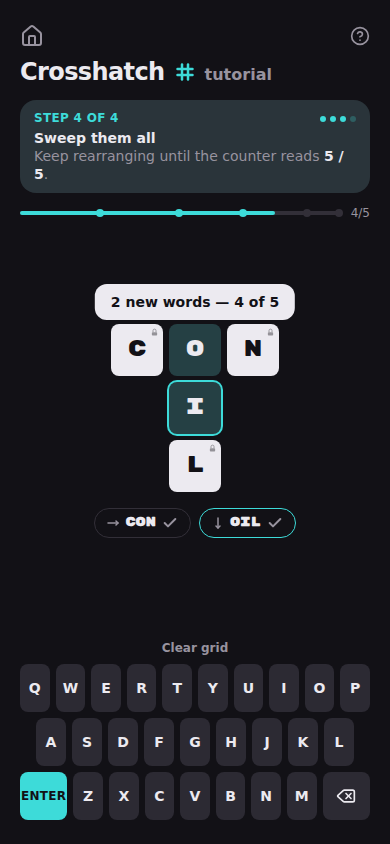
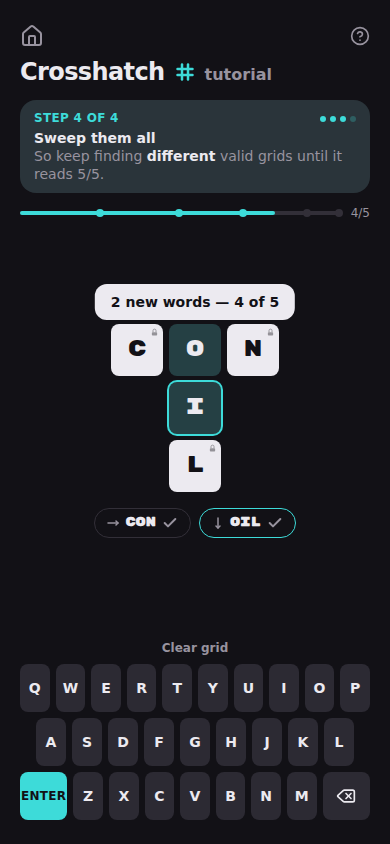
Only claim a tutorial step's fact when the board actually says so
Two steps were asserting things about the player's position that nothing
checked.

Serpentine's "Corners count too" tells you the NEXT letter is diagonal.
The reducer accepts any adjacent move — it only checks the phrase at the
end — so a player can wander off down a route that spells nothing, and the
step fired on cell COUNT alone. Two cells traced anywhere, and the tutorial
confidently pointed at a diagonal that wasn't there.

It now verifies the traced cells are exactly the solution's first N
(`onSolutionPath`), and off-path it holds at "tap a placed cell to undo
back to it" — which is the instruction that actually helps someone who has
gone wrong. Serpentine also stops clamping its step index forward, unlike
the other games: undoing is ordinary play here, so backing off the diagonal
should put the diagonal lesson back up rather than leaving stale guidance
on screen.

Backwords had a milder version of the same thing. "Palindromes need only
half — lay DA" fired on any committed row, but nothing forces the order; a
player who lays DA first was being told to do what they had just done. It
now waits for the PAIR specifically, so laying the palindrome first leaves
the step that names TOP up, which is what those remaining letters need.

Doublet's "the last two only fit vertically" was true of the intended order
and not of others, so it now states the board-wide fact instead.

Audited the other steps for the same class of error: Polygram's and
[…]

Changed region(s): [[0.5846, 0.154, 0.8923, 0.2156], [0.3385, 0.154, 0.5538, 0.2156], [0.0923, 0.154, 0.3077, 0.2156]]

diff --git a/src/games/serpentine/engine/tutorial.test.ts b/src/games/serpentine/engine/tutorial.test.ts
@@ -4,6 +4,7 @@ import { areAdjacent, cellKey } from "./types";
 import { checkSolved, validatePuzzle } from "./validation";
 import {
   TUTORIAL_FIRST_DIAGONAL,
+  onSolutionPath,
   TUTORIAL_PUZZLE,
   TUTORIAL_STEP_COUNT,
   tutorialStepIndex,
@@ -106,6 +107,55 @@ describe("tutorialStepIndex", () => {
   it("reports the script finished only when solved", () => {
     expect(at({ cells: TUTORIAL_PUZZLE.path, solved: true })).toBe(
       TUTORIAL_STEP_COUNT,
+    );
+  });
+
+  // The diagonal step asserts where the NEXT letter is, so it must never
+  // appear to a player who isn't standing where that is true. The reducer
+  // accepts any adjacent move, so wandering off is easy to do.
+  it("never shows the diagonal step off the solution path", () => {
+    // Two cells traced, but down a route that spells nothing: T then A
+    // (straight down) instead of T then R.
+    const wrong = [
+      { row: 0, col: 0 },
+      { row: 1, col: 0 },
+    ];
+    expect(onSolutionPath(wrong)).toBe(false);
+    expect(at({ cells: wrong })).toBe(1);
+  });
+
+  it("holds at the follow-the-letters step for any wrong route", () => {
+    // A long wrong route still gets the step that tells you how to undo,
+    // never the positional claim and never the near-the-end step.
+    const wrong = [
+      { row: 0, col: 0 },
+      { row: 1, col: 0 },
+      { row: 2, col: 0 },
+      { row: 2, col: 1 },
+      { row: 1, col: 1 },
+    ];
+    expect(onSolutionPath(wrong)).toBe(false);
+    expect(at({ cells: wrong })).toBe(1);
+  });
+
+  it("recovers the diagonal step when the player backs onto the path", () => {
+    // Undo is ordinary play here, and the screen does not clamp the step
+    // forward — stepping back to the diagonal should put its lesson back.
+    expect(at({ cells: path(3) })).toBe(3);
+    expect(at({ cells: path(TUTORIAL_FIRST_DIAGONAL) })).toBe(2);
+    expect(at({ cells: path(1) })).toBe(1);
+    expect(at({ cells: [] })).toBe(0);
+  });
+
+  it("accepts every prefix of the real path as on-path", () => {
+    for (let n = 0; n <= TUTORIAL_PUZZLE.path.length; n++) {
+      expect(onSolutionPath(path(n))).toBe(true);
+    }
+  });
+
+  it("rejects a path longer than the solution", () => {
+    expect(onSolutionPath([...TUTORIAL_PUZZLE.path, { row: 0, col: 0 }])).toBe(
+      false,
     );
   });
 });

diff --git a/src/games/serpentine/engine/tutorial.ts b/src/games/serpentine/engine/tutorial.ts
@@ -63,6 +63,21 @@ export const TUTORIAL_FIRST_DIAGONAL = 2;
 export const TUTORIAL_STEP_COUNT = 4;
 
 /**
+ * True when the traced cells are EXACTLY the solution's first N cells.
+ *
+ * The reducer accepts any adjacent move — it only checks the phrase at the
+ * end — so a player can wander off down a route that spells nothing. The
+ * step script has to know the difference, because one of its steps makes a
+ * claim about where the next letter is.
+ */
+export function onSolutionPath(cells: readonly Cell[]): boolean {
+  if (cells.length > TUTORIAL_PATH.length) return false;
+  return cells.every(
+    (c, i) => c.row === TUTORIAL_PATH[i].row && c.col === TUTORIAL_PATH[i].col,
+  );
+}
+
+/**
  * Which step the board is on. Takes the fields it reads rather than the
  * reducer's GameState, so the engine stays free of state/ imports.
  */
@@ -71,9 +86,15 @@ export function tutorialStepIndex(s: {
   solved: boolean;
 }): number {
   if (s.solved) return TUTORIAL_STEP_COUNT;
-  // Past the first diagonal: the player has taken a corner move.
-  if (s.cells.length > TUTORIAL_FIRST_DIAGONAL) return 3;
-  if (s.cells.length >= TUTORIAL_FIRST_DIAGONAL) return 2;
-  if (s.cells.length >= 1) return 1;
-  return 0;
+  const n = s.cells.length;
+  if (n === 0) return 0;
+  // "Corners count too" tells the player the NEXT letter is diagonal, so it
+  // may only appear when that is actually true: on the solution path, with
+  // exactly the cells before the first diagonal traced. Anywhere else —
+  // including off down a wrong route — "tap a placed cell to undo back to
+  // it" is the instruction that helps, so hold at that step instead.
+  if (!onSolutionPath(s.cells)) return 1;
+  if (n < TUTORIAL_FIRST_DIAGONAL) return 1;
+  if (n === TUTORIAL_FIRST_DIAGONAL) return 2;
+  return 3;
 }

diff --git a/src/games/serpentine/ui/GameScreen.tsx b/src/games/serpentine/ui/GameScreen.tsx
@@ -25,7 +25,6 @@ import { nextHintIndex, replayHints, wordStartIndices } from "../engine/hints";
 import { TutorialPrompt } from "../../../components/TutorialPrompt";
 import { TutorialBanner } from "../../../components/game/TutorialBanner";
 import { TutorialDone } from "../../../components/game/TutorialDone";
-import { useTutorialProgress } from "../../../lib/tutorial/useTutorialProgress";
 import { tutorialStepIndex } from "../engine/tutorial";
 import { TUTORIAL_RECAP, TUTORIAL_STEPS } from "./tutorialSteps";
 
@@ -72,8 +71,12 @@ export function GameScreen({
   const storageBroken = useStorageBroken();
   const { showConfetti, showResults } = useSolveTransition(state.solved, hydratedAsSolved);
 
-  // The tutorial's running instruction. Only ever moves forward.
-  const tutorialStep = useTutorialProgress(tutorialStepIndex(state));
+  // The tutorial's running instruction — deliberately NOT clamped forward
+  // here, unlike the other games. Undoing is ordinary play in Serpentine,
+  // and the steps are position-aware: backing off the diagonal should put
+  // the diagonal lesson back up, and wandering off the path should return
+  // to "tap a placed cell to undo back to it".
+  const tutorialStep = tutorialStepIndex(state);
 
   const [coachOpen, setCoachOpen] = useState(false);
   const [hintedSet, setHintedSet] = useState<Set<number>>(new Set());

diff --git a/src/games/backwords/engine/tutorial.test.ts b/src/games/backwords/engine/tutorial.test.ts
@@ -82,14 +82,26 @@ describe("the tutorial bank", () => {
 describe("tutorialStepIndex", () => {
   const at = (s: Partial<Parameters<typeof tutorialStepIndex>[0]>) =>
     tutorialStepIndex({ current: "", rows: [], solved: false, ...s });
+  const pair = { def: { kind: "pair" as const } };
+  const palindrome = { def: { kind: "palindrome" as const } };
 
   it("starts on step one", () => {
     expect(at({})).toBe(0);
   });
 
-  it("advances on staging, then on the first committed row", () => {
+  it("advances on staging, then on the committed PAIR", () => {
     expect(at({ current: "t" })).toBe(1);
-    expect(at({ rows: [{}] })).toBe(2);
+    expect(at({ rows: [pair] })).toBe(2);
+  });
+
+  it("does not skip to the palindrome lesson when DA went down first", () => {
+    // Nothing forces the order. A player who lays DA before TOP still needs
+    // the step that names TOP — being told to lay the palindrome they just
+    // laid is worse than no guidance at all.
+    expect(at({ rows: [palindrome] })).toBe(0);
+    expect(at({ rows: [palindrome], current: "to" })).toBe(1);
+    // ...and once the pair follows, the script moves on as normal.
+    expect(at({ rows: [palindrome, pair] })).toBe(2);
   });
 
   it("reports the script finished only when solved", () => {

diff --git a/src/games/backwords/engine/tutorial.ts b/src/games/backwords/engine/tutorial.ts
@@ -39,12 +39,15 @@ export const TUTORIAL_STEP_COUNT = 3;
  */
 export function tutorialStepIndex(s: {
   current: string;
-  rows: readonly unknown[];
+  rows: readonly { def: { kind: "pair" | "palindrome" } }[];
   solved: boolean;
 }): number {
   if (s.solved) return TUTORIAL_STEP_COUNT;
-  // A committed row means the pair lesson landed; the palindrome is next.
-  if (s.rows.length >= 1) return 2;
+  // Move on to the palindrome lesson only once the PAIR is actually down.
+  // Nothing stops a player laying DA first, and if they do, the step that
+  // still helps is the one naming TOP — not one telling them to do what
+  // they just did.
+  if (s.rows.some((r) => r.def.kind === "pair")) return 2;
   if (s.current.length >= 1) return 1;
   return 0;
 }

diff --git a/src/games/crosshatch/ui/tutorialSteps.tsx b/src/games/crosshatch/ui/tutorialSteps.tsx
@@ -32,8 +32,8 @@ export const TUTORIAL_STEPS: TutorialStep[] = [
     title: "Change a line, submit again",
     body: (
       <>
-        Banked. Now find a <Key>different</Key> valid grid — new words
-        count.
+        Banked. The counter is <Key>words found of the five</Key> this grid
+        holds — all of them are needed.
       </>
     ),
   },
@@ -41,7 +41,7 @@ export const TUTORIAL_STEPS: TutorialStep[] = [
     title: "Sweep them all",
     body: (
       <>
-        Keep rearranging until the counter reads <Key>5 / 5</Key>.
+        So keep finding <Key>different</Key> valid grids until it reads 5/5.
       </>
     ),
   },

diff --git a/src/games/doublet/ui/tutorialSteps.tsx b/src/games/doublet/ui/tutorialSteps.tsx
@@ -30,8 +30,8 @@ export const TUTORIAL_STEPS: TutorialStep[] = [
     title: "Turn it on end",
     body: (
       <>
-        <Key>Rotate</Key> to stand a domino upright — the last two only fit
-        vertically.
+        <Key>Rotate</Key> to stand a domino upright — on this board some
+        pieces only fit that way.
       </>
     ),
   },
